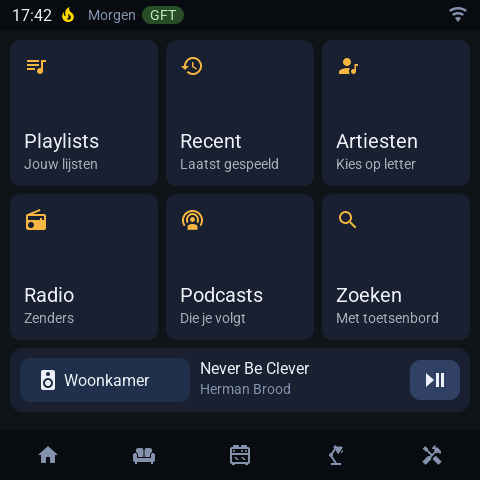
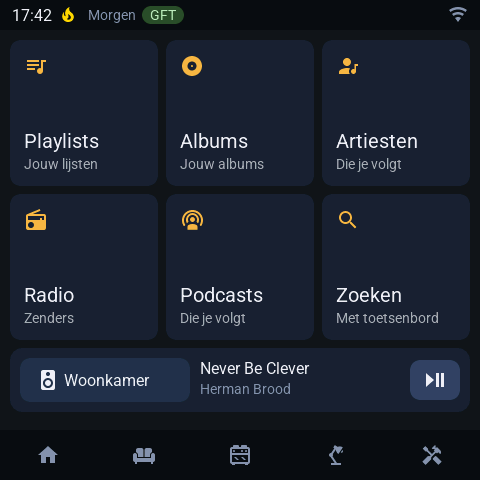
Spotify: Albums i.p.v. Recent, Artiesten als lijst; nieuwe energiesensoren
- Spotify-startscherm: tegel Albums vervangt Recent
- Artiesten opent direct een lijst (A-Z-scherm verwijderd), lijsten tot 100 items
- settings.yaml: andere sensoren voor airco en warmtepomp
- Readme en afbeelding van het Spotify-startscherm bijgewerkt

diff --git a/readme.md b/readme.md
@@ -43,17 +43,15 @@ Opened from the speaker button in a room's media player. Pick a source, then tap
 
 #### Spotify (via Music Assistant)  
 Opened from the Spotify button in a room's media player; that room's speaker is preselected (tap the speaker button to switch rooms).  
-- **Start:** Playlists, Recent, Artists (pick a letter), Radio, Podcasts and Search, plus what is playing now  
+- **Start:** Playlists, Albums, Artists, Radio, Podcasts and Search, plus what is playing now  
 - **Lists:** five rows per page with ▲/▼; tap a row to play it. Search results have tabs for tracks, artists, albums and playlists  
 - **Search:** on-screen keyboard  
 
 Lists come from `music_assistant.get_library` and `music_assistant.search`. A `response_template` lets Home Assistant reduce each item to name, artist and URI before it is sent to the display, so memory use stays small. Playback uses `music_assistant.play_media` on the Music Assistant players (`ma_*` in `settings.yaml`); grouping and volume keep using the Sonos entities. Spotify playback through Music Assistant needs a Spotify Premium account.
 
-| Start | Search results |
-|---|---|
-| ![Spotify start](images/spotify_start.png) | ![Spotify search results](images/spotify_zoekresultaten.png) |
-| **Search** | **Artists A–Z** |
-| ![Spotify search](images/spotify_zoeken.png) | ![Spotify artists](images/spotify_artiesten.png) |
+| Start | Search results | Search |
+|---|---|---|
+| ![Spotify start](images/spotify_start.png) | ![Spotify search results](images/spotify_zoekresultaten.png) | ![Spotify search](images/spotify_zoeken.png) |
 
 #### Weather Forecast  
 ![Weather](images/weer.png)
